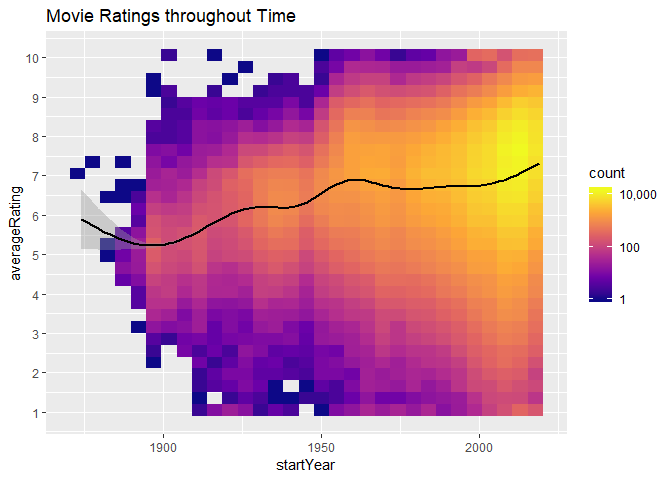
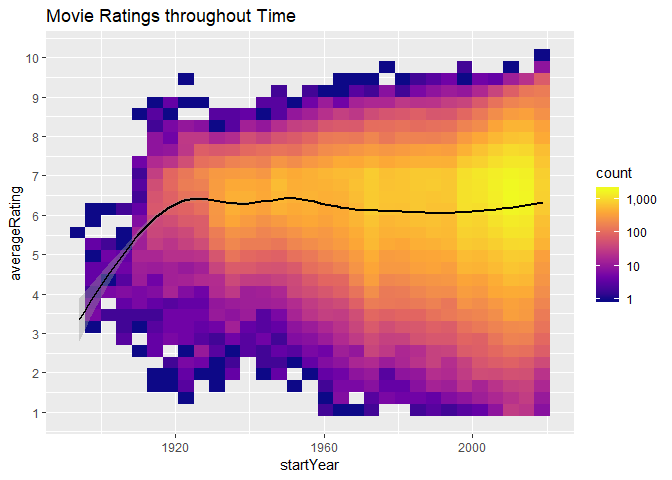
Final Editing

diff --git a/IMBd_analysis.md b/IMBd_analysis.md
@@ -75,7 +75,7 @@ lack of scores between 2-5 suggest that people really don’t use those
 votes.
 
 ``` r
-p2 <- ggplot(df_ratings, aes(x = numVotes, y = averageRating))
+p2 <-     ggplot(df_ratings, aes(x = numVotes, y = averageRating))
 p2 <-     p2 +
           geom_bin2d() +
           scale_x_log10(labels = comma) +
@@ -92,7 +92,17 @@ plot(p2)
 We’ve exhausted this dataset, we’ll now extend the data we’re looking at
 to include Movie Titles and their genres/years created.
 
-We’ll join these together through their unique movie identifier.
+``` r
+df_basics = read_imdb("\\data2.tsv")
+```
+
+We’ll join these together through their unique movie identifier and
+*improve* our original dataframe.
+
+``` r
+df_ratings <- df_ratings %>% left_join(df_basics)
+head(df_ratings)
+```
 
     ## # A tibble: 6 x 11
     ##   tconst averageRating numVotes titleType primaryTitle originalTitle
@@ -106,32 +116,15 @@ We’ll join these together through their unique movie identifier.
     ## # ... with 5 more variables: isAdult <dbl>, startYear <dbl>,
     ## #   endYear <lgl>, runtimeMinutes <dbl>, genres <chr>
 
-Now with our new extensive data frame we move to perform the real
-analysis on our Movie
-Ratings.
+Now with our new data frame we move to perform the real analysis on our
+Movie Ratings, particularly with how the Average Rating changes
+throughout
+time.
 
 ``` r
-df_ratings %>% filter(titleType == "movie", numVotes >= 10) # Cleaning the Data
-```
+df_ratings_filter = df_ratings %>% filter(titleType == "movie", numVotes >= 10) # Cleaning the Data
 
-    ## # A tibble: 172,200 x 11
-    ##    tconst averageRating numVotes titleType primaryTitle originalTitle
-    ##    <chr>          <dbl>    <dbl> <chr>     <chr>        <chr>        
-    ##  1 tt000~           5.5       78 movie     Miss Jerry   Miss Jerry   
-    ##  2 tt000~           5.2      290 movie     The Corbett~ The Corbett-~
-    ##  3 tt000~           6.3       39 movie     Soldiers of~ Soldiers of ~
-    ##  4 tt000~           6.2      508 movie     The Story o~ The Story of~
-    ##  5 tt000~           4.8       15 movie     Robbery Und~ Robbery Unde~
-    ##  6 tt000~           2.9       11 movie     Hamlet       Amleto       
-    ##  7 tt000~           4.3       10 movie     Don Quijote  Don Quijote  
-    ##  8 tt000~           4.8       33 movie     The Fairylo~ The Fairylog~
-    ##  9 tt000~           4.6       10 movie     Faldgruben   Faldgruben   
-    ## 10 tt000~           5.1       19 movie     Hamlet, Pri~ Hamlet       
-    ## # ... with 172,190 more rows, and 5 more variables: isAdult <dbl>,
-    ## #   startYear <dbl>, endYear <lgl>, runtimeMinutes <dbl>, genres <chr>
-
-``` r
-p3 <- ggplot(df_ratings, aes(x = startYear, y = averageRating)) 
+p3 <-     ggplot(df_ratings_filter, aes(x = startYear, y = averageRating)) 
 
 p3 <-     p3 + geom_bin2d() +
           geom_smooth(color="black") +
@@ -151,11 +144,14 @@ bias, unless movies really have got drastically better… which I
 **definitely** won’t get into\!
 
 Making Horror the subject of this we now need to adapt our code to only
-include Horror
+include Horror examples. Note that we’re not looking for movies such
+that their genre equals Horror, but rather contains Horror. This is
+since there exists several movies that have multiple genres\! We make us
+of the fascinating `grepl()` function for this
 
 ``` r
-df_ratingsHORROR = subset(df_ratings, grepl("Horror", genres))
-head(df_ratingsHORROR,15)
+df_ratings_hor = subset(df_ratings, grepl("Horror", genres))
+head(df_ratings_hor,15)
 ```
 
     ## # A tibble: 15 x 11
@@ -179,35 +175,26 @@ head(df_ratingsHORROR,15)
     ## # ... with 5 more variables: isAdult <dbl>, startYear <dbl>,
     ## #   endYear <lgl>, runtimeMinutes <dbl>, genres <chr>
 
+Now we’ll be able to see with the same conditions as before, how the
+trend looks like for the Horror
+genre\!
+
 ``` r
-plot2 <- ggplot(df_ratingsHORROR %>% filter(titleType == "movie", numVotes >= 10), aes(x = startYear, y = averageRating)) +
-          geom_bin2d() +
+df_ratings_hor_filter = df_ratings_hor %>% filter(df_ratings_hor$titleType == "movie", df_ratings_hor$numVotes >= 150) 
+
+p4 <-     ggplot(df_ratings_hor, aes(x = startYear, y = averageRating))
+
+p4 <-     p4 + geom_bin2d() +
           geom_smooth(color="black") +
           scale_x_continuous() +
           scale_y_continuous(breaks = 1:10) +
           scale_fill_viridis_c(option = "plasma", labels = comma, trans = 'log10') + 
-          labs(title="Horror movie ratings throughout time")
-plot(plot2)
+          labs(title="Horror movie ratings through time")
+plot(p4)
 ```
 
 ![](IMBd_analysis_files/figure-gfm/unnamed-chunk-9-1.png)<!-- -->
 
-As previously done for Horror we will now recreate for
-Comedy
-
-``` r
-df_ratingsCOMEDY = subset(df_ratings, grepl("Comedy", genres))
-```
-
-``` r
-plot3 <- ggplot(df_ratingsCOMEDY %>% filter(titleType == "movie", numVotes >= 10), aes(x = startYear, y = averageRating)) +
-          geom_bin2d() +
-          geom_smooth(color="black") +
-          scale_x_continuous() +
-          scale_y_continuous(breaks = 1:10) +
-          scale_fill_viridis_c(option = "plasma", labels = comma, trans = 'log10') + 
-          labs(title="Comedy movie ratings throughout time")
-plot(plot3)
-```
-
-![](IMBd_analysis_files/figure-gfm/unnamed-chunk-11-1.png)<!-- -->
+Lo and behold, the rating really is going down. We really could say this
+doesn’t look as bad as it really is considering we know there’s a
+potential recency bias in the data.
